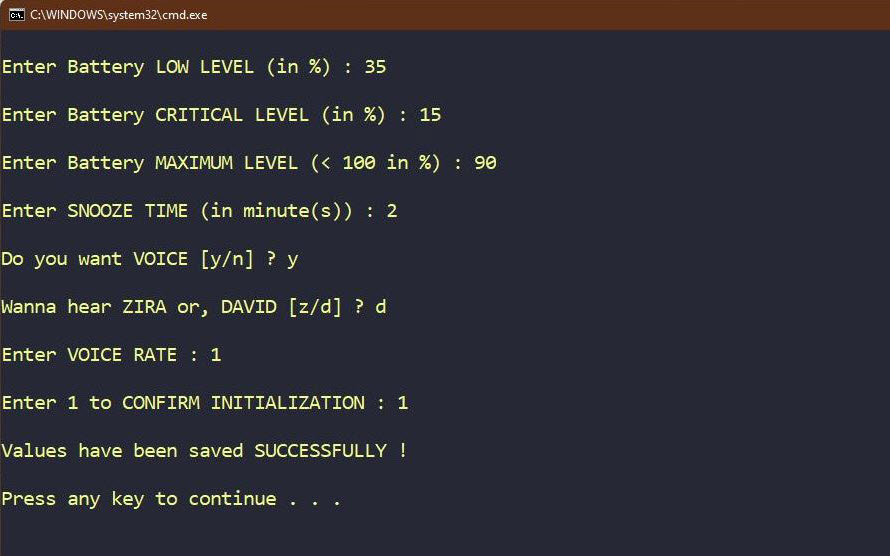
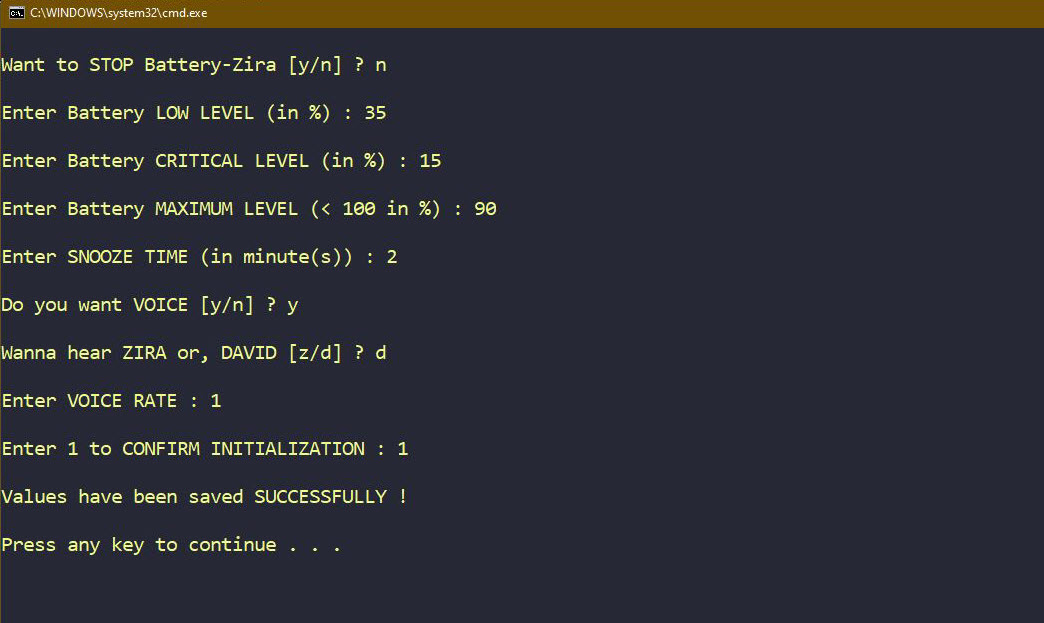
Version 3.0

diff --git a/README.md b/README.md
@@ -65,6 +65,7 @@ A Windows based program that gives voice reminder based on *low*, *critical*, *m
 + To skip the value of a parameter, press enter. This will accept the default/recently saved (if any) value for that parameter.
 + For a parameter accepting numerical values, only *non-zero* **positive** *integral* values are allowed.
 + The DEFAULT VALUES are:
+  + Stop Battery-Zira - no
   + Low battery level - 40 %
   + Critical battery level - 20 %
   + Maximum battery level - 80 %
